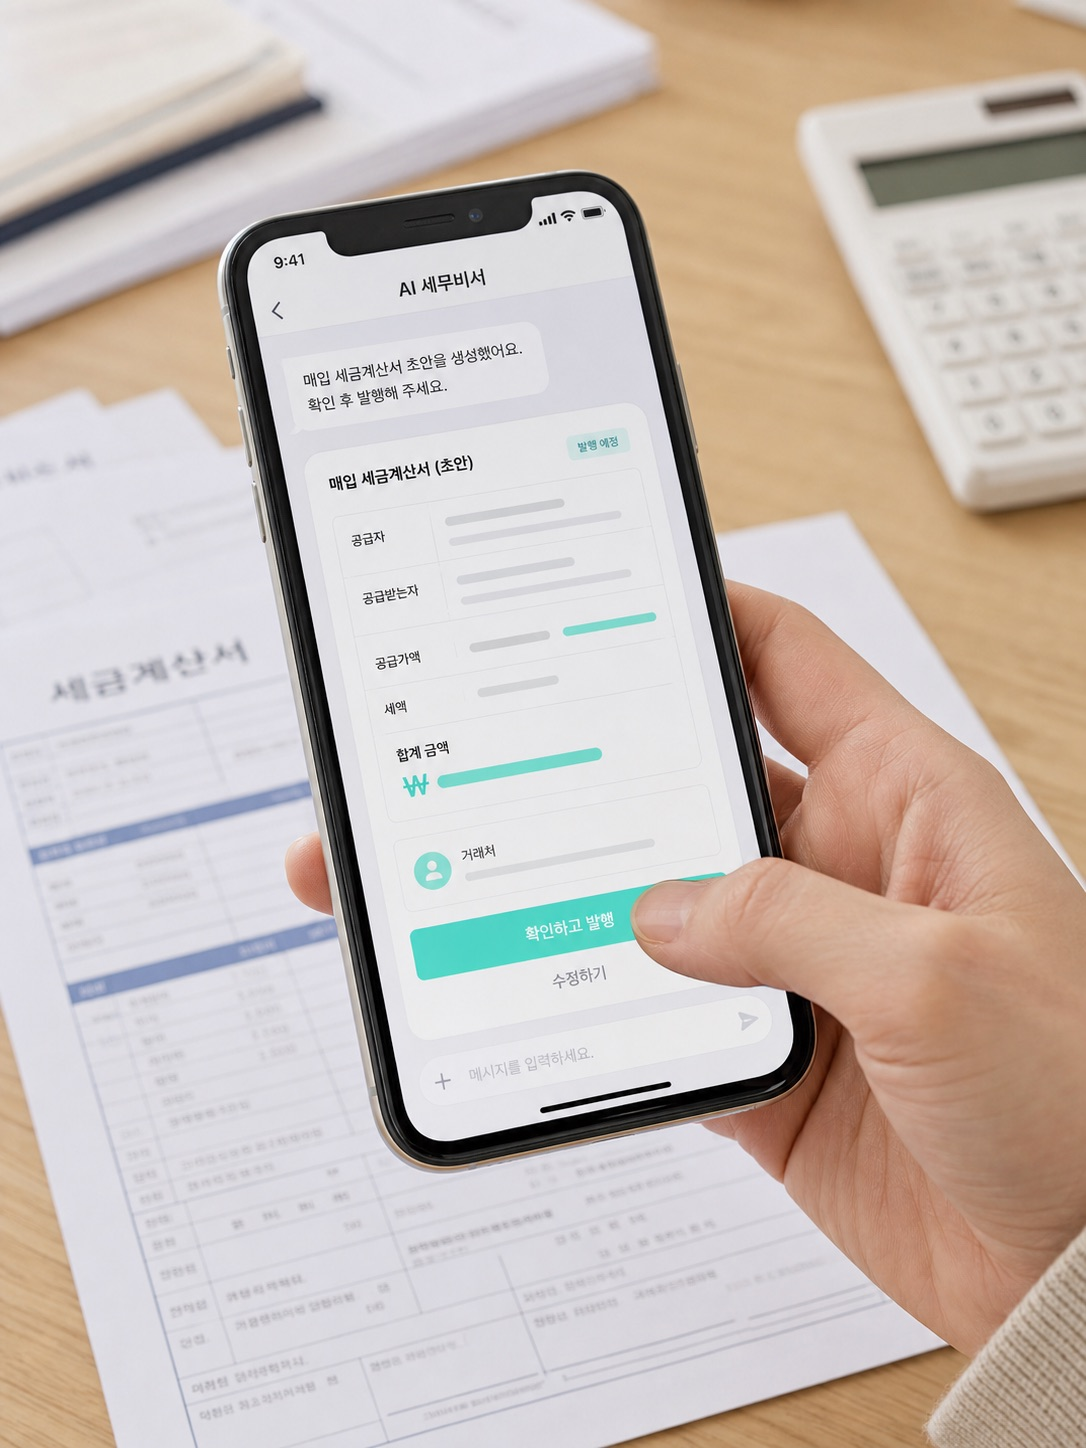
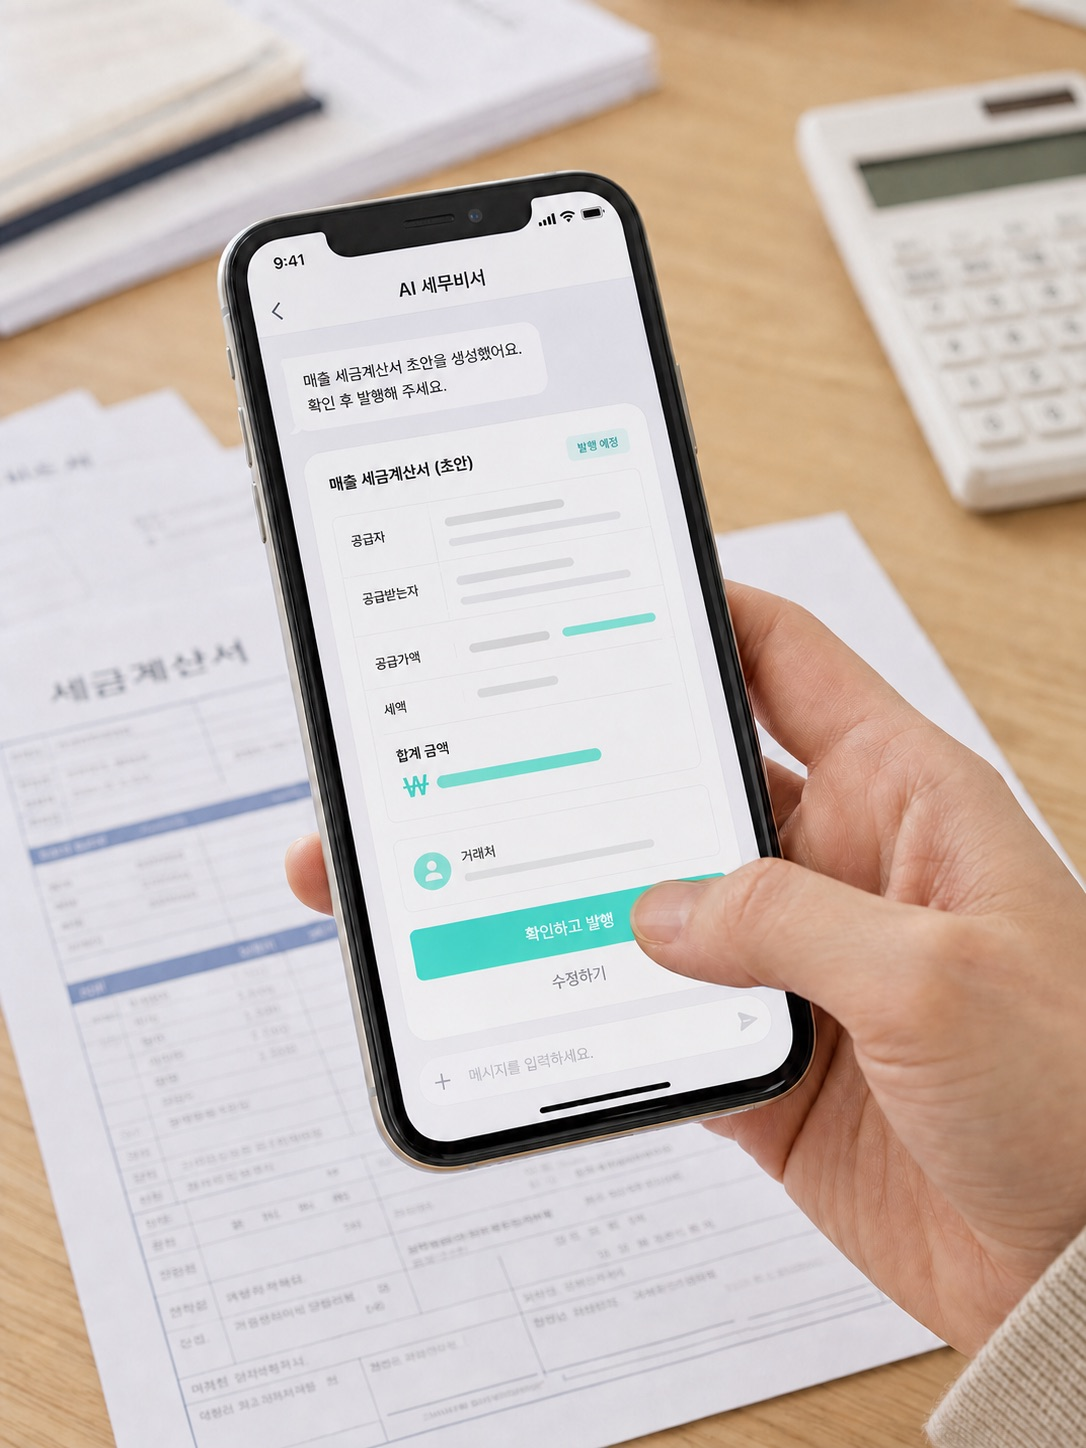
fix: 사례 슬라이드가 다른 슬라이드를 덮어 가리던 CSS 캐스케이드 버그
.case { display: grid }가 .slide { display: none }보다 뒤에 있어 같은
특이도에서 이겼다. 그 결과 사례 슬라이드 6장이 항상 display 상태로 남아
DOM 순서상 뒤에 있는 CASE 06이 표지/개요/문제제기 슬라이드를 덮어 가렸다.
또 .slide.on { display: flex }가 .case의 grid를 이겨서, 사례 슬라이드가
활성화되면 2단 레이아웃이 1단으로 무너졌다.

.case에서 display를 빼고 .slide.case.on { display: grid }로 옮겨
두 문제를 함께 해결했다. 헤드리스 크로미움으로 11장 전부 렌더링 검증했다.

함께 반영:
- case5 이미지를 "매출 세금계산서"로 재생성해 교체 (최초본은 보존)
- 마무리 슬라이드의 chip이 혼자 좌측 정렬되던 것 중앙으로
- 조작키 안내는 표지에서만 표시하고 발표 시작하면 사라지게

diff --git a/dist/usecases.html b/dist/usecases.html
@@ -56,6 +56,10 @@
     background: var(--paper);
   }
   .slide.on { display: flex; animation: rise .5s cubic-bezier(.22,.9,.3,1); }
+  /* 사례 슬라이드는 2단 그리드다. .slide.on(0,2,0)을 이겨야 하므로
+     .slide.case.on(0,3,0)으로 지정한다. .case에 display를 두면
+     뒤에 오는 규칙이 .slide의 display:none을 덮어 항상 보이게 된다. */
+  .slide.case.on { display: grid; }
   @keyframes rise { from { opacity: 0; transform: translateY(18px); } }
 
   /* ── 공통 타이포 ─────────────────────────────── */
@@ -101,7 +105,7 @@
   }
 
   /* ── 사례 슬라이드 2단 레이아웃 ───────────────── */
-  .case { display: grid; grid-template-columns: 1fr 620px; gap: 64px; }
+  .case { grid-template-columns: 1fr 620px; gap: 64px; }
   .case .body { display: flex; flex-direction: column; }
   .case .head { display: flex; align-items: center; gap: 20px; margin-bottom: 20px; }
   .case .num {
@@ -190,6 +194,7 @@
       radial-gradient(900px 620px at 50% 8%, rgba(62,230,200,.3), transparent 62%),
       var(--paper);
   }
+  .outro .chip { align-self: center; }
   .outro h2 { font-size: 68px; max-width: 1160px; }
   .outro .lead { margin-top: 28px; max-width: 900px; }
   .btns { margin-top: 56px; display: flex; gap: 16px; }
@@ -247,7 +252,9 @@
     font-size: 13px; font-weight: 600; color: rgba(29,29,31,.45);
     background: rgba(255,255,255,.8); border-radius: 999px; padding: 8px 16px;
     backdrop-filter: blur(8px);
+    transition: opacity .5s ease;
   }
+  #help.gone { opacity: 0; pointer-events: none; }
 
   @media print {
     html, body { overflow: visible; background: #fff; }
@@ -616,6 +623,8 @@ function show(i) {
   slides.forEach((s, n) => s.classList.toggle('on', n === cur));
   bar.style.width = ((cur + 1) / slides.length * 100) + '%';
   notesTxt.textContent = slides[cur].dataset.notes || '이 슬라이드에는 노트가 없습니다';
+  /* 조작키 안내는 표지에서만 띄운다 — 발표 중 화면에 남지 않게 */
+  help.classList.toggle('gone', cur > 0);
   /* 페이지 번호는 각 슬라이드마다 하나씩 들어있다 */
   const p = slides[cur].querySelector('#pager, .pager');
   if (p) p.textContent = String(cur + 1).padStart(2, '0') + ' / ' + String(slides.length).padStart(2, '0');
@@ -627,7 +636,7 @@ document.addEventListener('keydown', e => {
   else if (e.key === 'ArrowLeft' || e.key === 'ArrowUp' || e.key === 'PageUp') { e.preventDefault(); show(cur - 1); }
   else if (e.key === 'Home') show(0);
   else if (e.key === 'End') show(slides.length - 1);
-  else if (e.key === 'n' || e.key === 'N') { notes.classList.toggle('on'); help.style.display = notes.classList.contains('on') ? 'none' : ''; fit(); }
+  else if (e.key === 'n' || e.key === 'N') { notes.classList.toggle('on'); fit(); }
   else if (e.key === 'f' || e.key === 'F') { document.fullscreenElement ? document.exitFullscreen() : document.documentElement.requestFullscreen(); }
   else if (e.key === 'p' || e.key === 'P') window.print();
 });

diff --git a/site/usecases.html b/site/usecases.html
@@ -56,6 +56,10 @@
     background: var(--paper);
   }
   .slide.on { display: flex; animation: rise .5s cubic-bezier(.22,.9,.3,1); }
+  /* 사례 슬라이드는 2단 그리드다. .slide.on(0,2,0)을 이겨야 하므로
+     .slide.case.on(0,3,0)으로 지정한다. .case에 display를 두면
+     뒤에 오는 규칙이 .slide의 display:none을 덮어 항상 보이게 된다. */
+  .slide.case.on { display: grid; }
   @keyframes rise { from { opacity: 0; transform: translateY(18px); } }
 
   /* ── 공통 타이포 ─────────────────────────────── */
@@ -101,7 +105,7 @@
   }
 
   /* ── 사례 슬라이드 2단 레이아웃 ───────────────── */
-  .case { display: grid; grid-template-columns: 1fr 620px; gap: 64px; }
+  .case { grid-template-columns: 1fr 620px; gap: 64px; }
   .case .body { display: flex; flex-direction: column; }
   .case .head { display: flex; align-items: center; gap: 20px; margin-bottom: 20px; }
   .case .num {
@@ -190,6 +194,7 @@
       radial-gradient(900px 620px at 50% 8%, rgba(62,230,200,.3), transparent 62%),
       var(--paper);
   }
+  .outro .chip { align-self: center; }
   .outro h2 { font-size: 68px; max-width: 1160px; }
   .outro .lead { margin-top: 28px; max-width: 900px; }
   .btns { margin-top: 56px; display: flex; gap: 16px; }
@@ -247,7 +252,9 @@
     font-size: 13px; font-weight: 600; color: rgba(29,29,31,.45);
     background: rgba(255,255,255,.8); border-radius: 999px; padding: 8px 16px;
     backdrop-filter: blur(8px);
+    transition: opacity .5s ease;
   }
+  #help.gone { opacity: 0; pointer-events: none; }
 
   @media print {
     html, body { overflow: visible; background: #fff; }
@@ -616,6 +623,8 @@ function show(i) {
   slides.forEach((s, n) => s.classList.toggle('on', n === cur));
   bar.style.width = ((cur + 1) / slides.length * 100) + '%';
   notesTxt.textContent = slides[cur].dataset.notes || '이 슬라이드에는 노트가 없습니다';
+  /* 조작키 안내는 표지에서만 띄운다 — 발표 중 화면에 남지 않게 */
+  help.classList.toggle('gone', cur > 0);
   /* 페이지 번호는 각 슬라이드마다 하나씩 들어있다 */
   const p = slides[cur].querySelector('#pager, .pager');
   if (p) p.textContent = String(cur + 1).padStart(2, '0') + ' / ' + String(slides.length).padStart(2, '0');
@@ -627,7 +636,7 @@ document.addEventListener('keydown', e => {
   else if (e.key === 'ArrowLeft' || e.key === 'ArrowUp' || e.key === 'PageUp') { e.preventDefault(); show(cur - 1); }
   else if (e.key === 'Home') show(0);
   else if (e.key === 'End') show(slides.length - 1);
-  else if (e.key === 'n' || e.key === 'N') { notes.classList.toggle('on'); help.style.display = notes.classList.contains('on') ? 'none' : ''; fit(); }
+  else if (e.key === 'n' || e.key === 'N') { notes.classList.toggle('on'); fit(); }
   else if (e.key === 'f' || e.key === 'F') { document.fullscreenElement ? document.exitFullscreen() : document.documentElement.requestFullscreen(); }
   else if (e.key === 'p' || e.key === 'P') window.print();
 });

diff --git a/assets/deck_image_plan.md b/assets/deck_image_plan.md
@@ -16,13 +16,18 @@
 - 재변환이 필요하면:
   `cd assets/deck && for i in 1 2 3 4 5 6; do sips -s format jpeg -s formatOptions 82 case$i.png --out case$i.jpg; done`
 
-### 이미지 안의 알려진 오탈자 (재생성 시 수정 대상)
+### 이미지 안의 오탈자
 
-- `case5` — 화면에 "**매입** 세금계산서 (초안)". 발표자는 발행하는 쪽이므로 "**매출**"이 맞다.
+- `case5` — **수정 완료 (2026-08-20)**. "매입 세금계산서" → "매출 세금계산서"로 재생성했다.
+  Codex 재생성본은 `case5_v2.png`, 슬라이드가 쓰는 `case5.jpg`는 여기서 변환했다.
+  최초본 `case5.png`(매입 표기)는 보존해 두었다.
 - `case4` — 공지 목록에 "20**3**4년 겨울방학 특강 안내" 오타, 날짜도 2024년으로 과거다.
+  620px로 축소되면 판독이 안 되는 크기라 그대로 두었다.
 
-두 건 모두 슬라이드에서는 620px 폭으로 축소 표시되어 눈에 잘 띄지 않지만,
-화면을 크게 띄우는 발표장이라면 재생성을 권한다.
+### Codex 모델 주의
+
+이 계정(ChatGPT 로그인)은 `gpt-5.3-codex` / `gpt-5.1-codex` / `gpt-5.1-codex-max`를
+거부한다. `~/.codex/config.toml`의 기본값인 **`gpt-5.6-terra`**를 명시해야 동작한다.
 
 ## 공통 스타일 문장 (6장 모두 동일하게 삽입)
 
